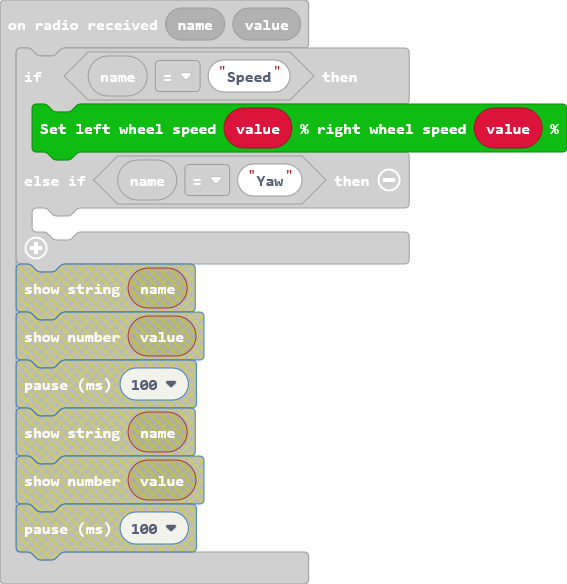
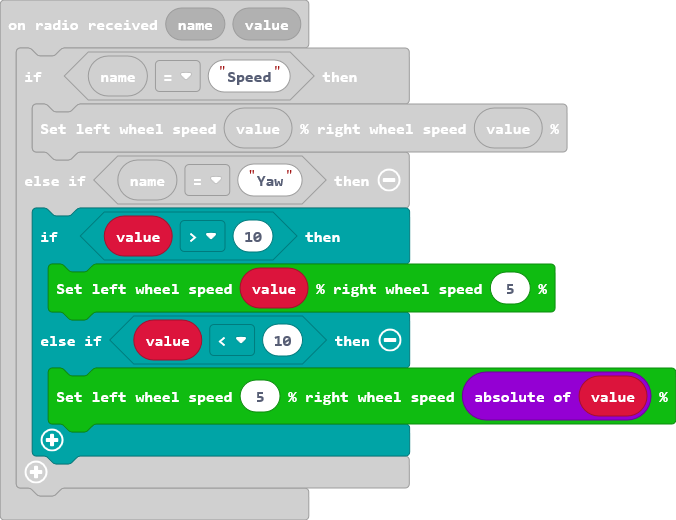
Update main.blocks, main.ts

diff --git a/main.ts b/main.ts
@@ -2,7 +2,11 @@ radio.onReceivedValue(function (name, value) {
     if (name == "Speed") {
         cuteBot.motors(value, value)
     } else if (name == "Yaw") {
-    	
+        if (value > 10) {
+            cuteBot.motors(value, 5)
+        } else if (value < 10) {
+            cuteBot.motors(5, Math.abs(value))
+        }
     }
 })
 radio.setGroup(1)
